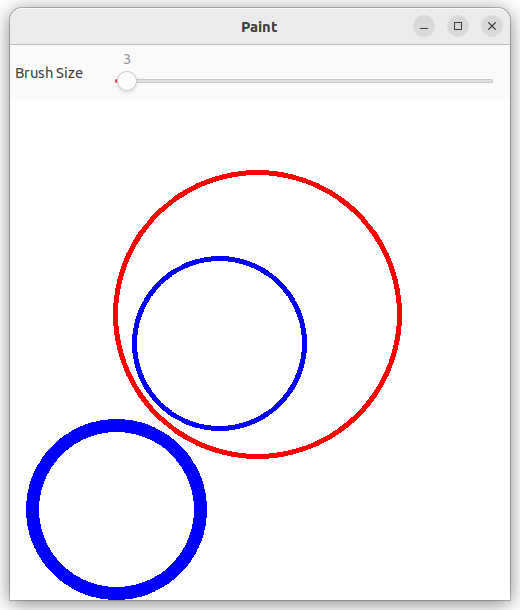
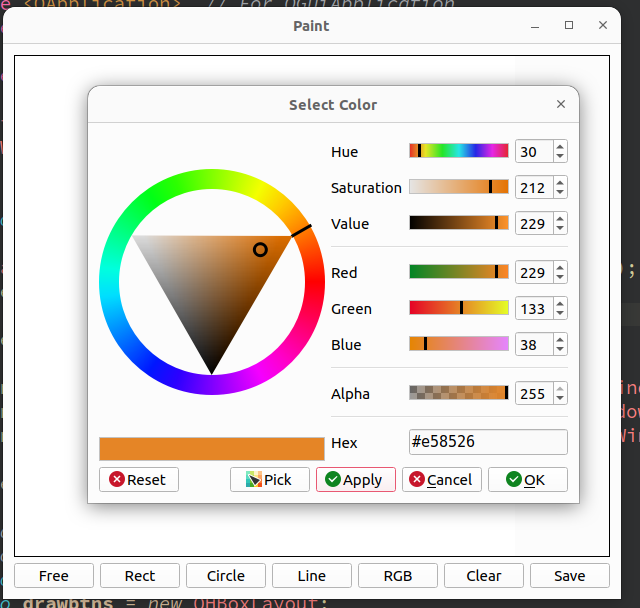
updated instructions

diff --git a/README.md b/README.md
@@ -9,6 +9,8 @@ This is an image editor/ paint made on **C++** with [opencv](https://opencv.org/
 - Drawing using diffent brushes.
 
 - Drawing shapes (such as squares, circles, ect.)
+  
+  - Each shape tool has it's own brush
 
 - Text writing
 
@@ -18,23 +20,17 @@ This is an image editor/ paint made on **C++** with [opencv](https://opencv.org/
 
 - Others
   
-  <img title="" src="./screenshots/free_draw.png" alt="drawing" width="198"><img title="" src="./screenshots/square.png" alt="squaredrawing" width="196" data-align="inline"><img title="" src="screenshots/circle.png" alt="circles" width="198">
+  <img title="" src="./screenshots/free_draw.png" alt="drawing" width="245"><img title="" src="./screenshots/square.png" alt="squaredrawing" width="208" data-align="inline"><img title="" src="screenshots/circle.png" alt="circles" width="223">
 
 ## Key commands
 
-`1` changes to **free drawing**
+`Ctrl + Z` changes to **free drawing**
 
-`2` changes to the **square tool**
+`Ctrl + Y` changes to the **square tool**
 
-`3` changes to the **circle tool**
+`RGB btn` opens the color picker dialog to **choose a color**
 
-`r` changes the color to **red**
-
-`b` chnages the color to **blue**
-
-`esc` exits the application (alco CTRL + C in terminal)
-
-and the tracker on top of the window is for the **brush size**.
+`Tool btn's` changes the **drawing tool** (*Free drawing, rectangles, lines, circles*).
 
 ## Setup
 
